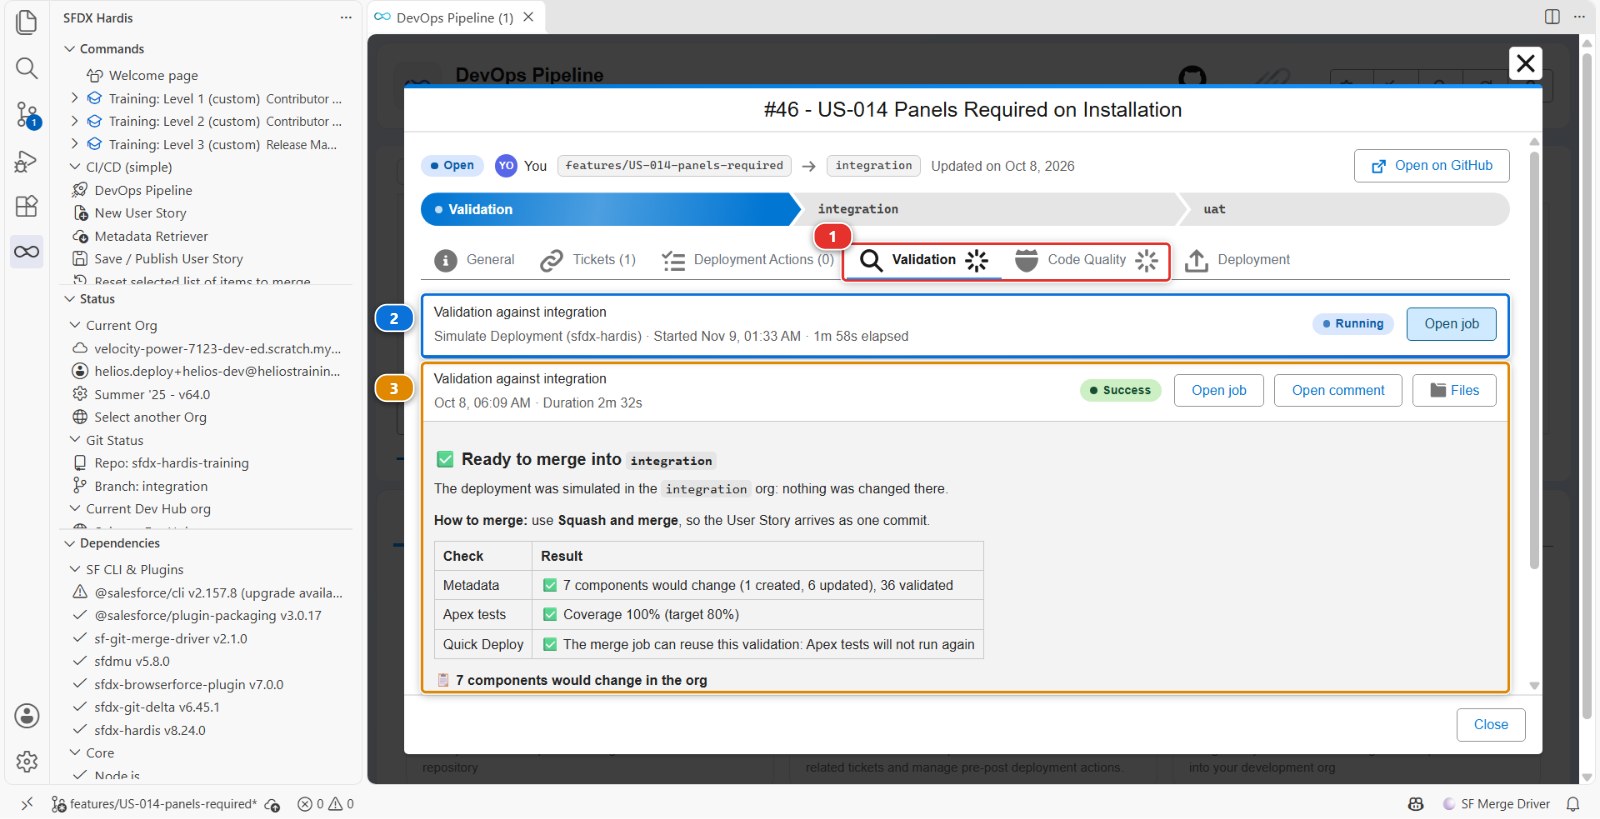
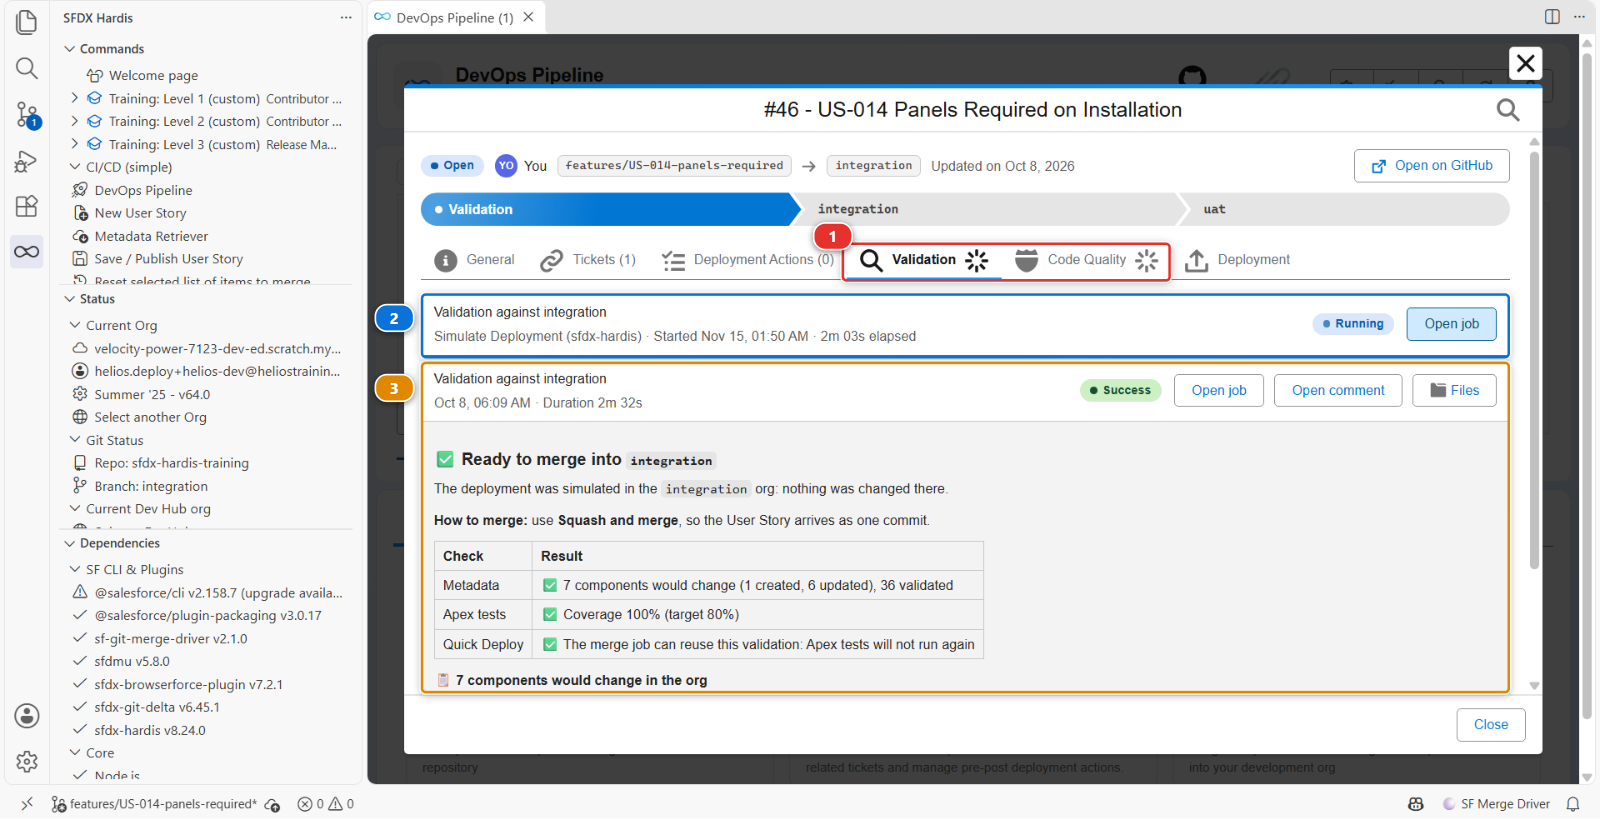
Lab 1.6: the search bar of the Pull Request window (#401)
* Lab 1.6: the search bar of the Pull Request window

Item (4) of the window step, in English and French. The pictures of the window are taken again in this PR (hardisgroupcom/vscode-sfdx-hardis#618).

* Lab 1.6: point at the search button of the Pull Request window

The search bar is closed until its button or Ctrl+F opens it: pill (4) on the button, and the four pictures of the window taken again.

Changed region(s): [[0.25, 0.2137, 0.4688, 0.2747], [0.4375, 0.3968, 0.5625, 0.4274], [0.9375, 0.1221, 0.9688, 0.1526]]

diff --git a/labs/fr/level-1-contributor-basics/1-6-pull-request-deployment-check-and-merge.md b/labs/fr/level-1-contributor-basics/1-6-pull-request-deployment-check-and-merge.md
@@ -5,7 +5,7 @@ description: "Ouvrez une Pull Request GitHub, lisez le contrôle de déploiement
 level: 1
 lab: 6
 lang: fr
-source_rev: "512c5a46a7c8e678c5c77de8196b35334478e8dd"
+source_rev: "3cdcbe7a9a021226761f3e632b1308c295ec2400"
 screenshots:
   - annotated/web/github-pr-checks
   - annotated/web/github-pr-comment
@@ -242,6 +242,10 @@ Azure Boards ou ServiceNow à la place.
    2. Le job **(2)** : son résultat, sa durée, **Open job** pour son log sur GitHub,
       **Open comment** pour le commentaire sur GitHub, et **Files**
    3. Le commentaire **(3)**, celui que vous venez de lire, mot pour mot
+   4. Le bouton de recherche **(4)**, pour le jour où un commentaire est long, ou Ctrl+F (Cmd+F
+      sur Mac) : une barre s'ouvre au-dessus des onglets. Tapez un mot, le nom de votre champ par
+      exemple, et il s'allume dans chaque commentaire, avec le nombre de correspondances sur
+      chaque onglet. Entrée passe à la suivante, et Échap ferme la barre
 
    ![La fenêtre d'une Pull Request dans VS Code, sur son onglet Validation](../../_assets/annotated/vscode/pipeline-pr-window-validation.png)
 

diff --git a/labs/en/level-1-contributor-basics/1-6-pull-request-deployment-check-and-merge.md b/labs/en/level-1-contributor-basics/1-6-pull-request-deployment-check-and-merge.md
@@ -235,6 +235,10 @@ ServiceNow connector instead.
    2. The job **(2)**: its result, how long it ran, **Open job** for its log on GitHub,
       **Open comment** for the comment on GitHub, and **Files**
    3. The comment **(3)**, the one you have just read, word for word
+   4. The search button **(4)**, for the day a comment runs long, or Ctrl+F (Cmd+F on a Mac): a
+      bar opens above the tabs. Type a word, the name of your field for instance, and it lights
+      up in every comment, with the number of matches on each tab. Enter goes to the next one,
+      and Escape closes the bar
 
    ![The window of a Pull Request in VS Code, on its Validation tab](../../_assets/annotated/vscode/pipeline-pr-window-validation.png)
 

diff --git a/CHANGELOG.md b/CHANGELOG.md
@@ -3,6 +3,10 @@
 What changed in the course, for learners and trainers. The course has no versions: each section is
 a day, newest first, and a change goes under the date of the day it is made.
 
+## 2026-11-15
+
+- Lab 1.6: the window of a Pull Request in VS Code can search its comments, and the lab shows its search button next to the tabs, the job and the comment. Its pictures, and the ones of Lab 3.2, are taken again.
+
 ## 2026-11-11
 
 - Guinea Run: **Remove me from the Hall of Fame** sticks. The game used to take the player's id back from its own save at the next write, then kept sending their new best scores.
